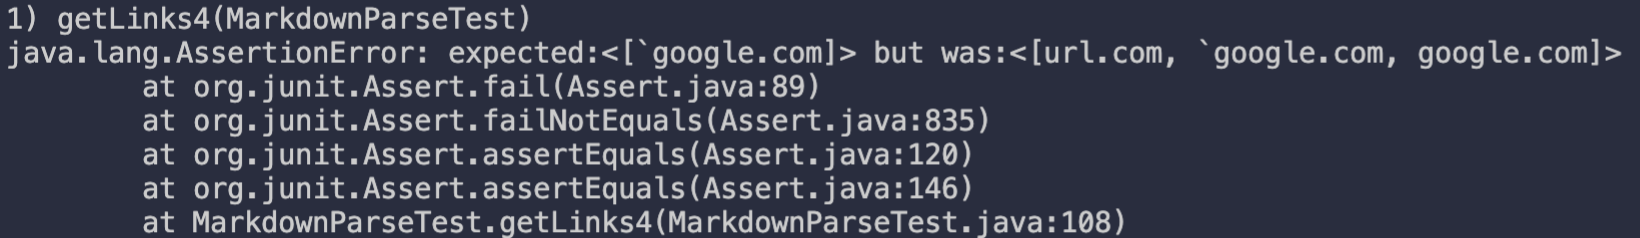
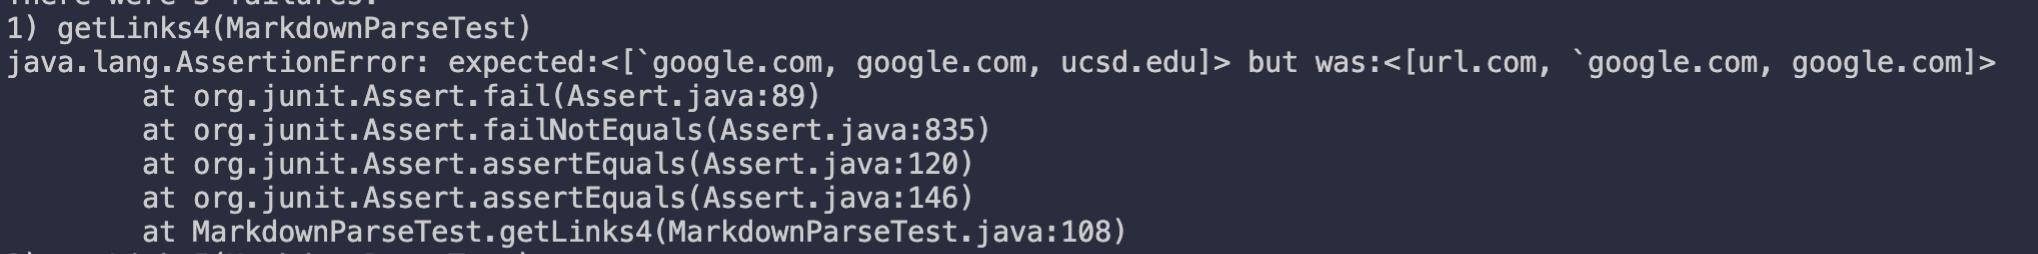
Fix lab

Changed region(s): [[0.0, 0.0, 0.9951, 0.5882], [0.0622, 0.5882, 0.6841, 1.0]]

diff --git a/src/lab-report-4-week-8.md b/src/lab-report-4-week-8.md
@@ -18,7 +18,7 @@
 
 ### Correct Ouput
 
-According to the commonmark spec, there should be only one link: "`google.com".
+According to the commonmark spec, there should be three links: "`google.com", "google.com" and "ucsd.edu".
 
 ### Added Test
 
@@ -29,7 +29,7 @@ can simply add a test with the following code:
 ```java
 @Test
 public void testSnippet1() throws IOException {
-    assertLinks(List.of("`google.com"), "testCases/snippet1.md");
+    assertLinks(List.of("`google.com", "google.com", "ucsd.edu"), "testCases/snippet1.md");
 }
 ```
 
